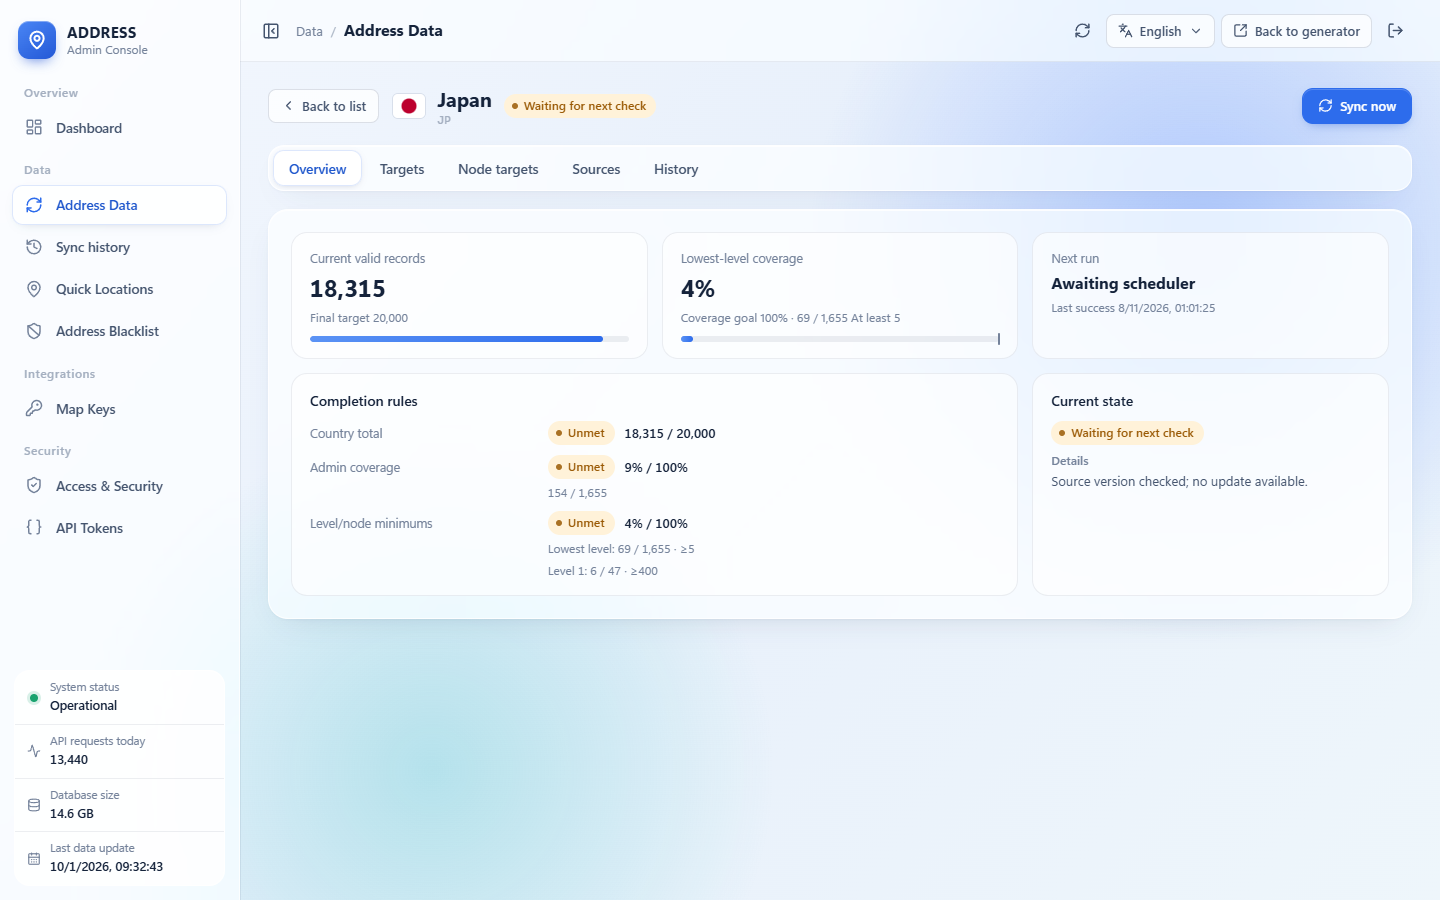
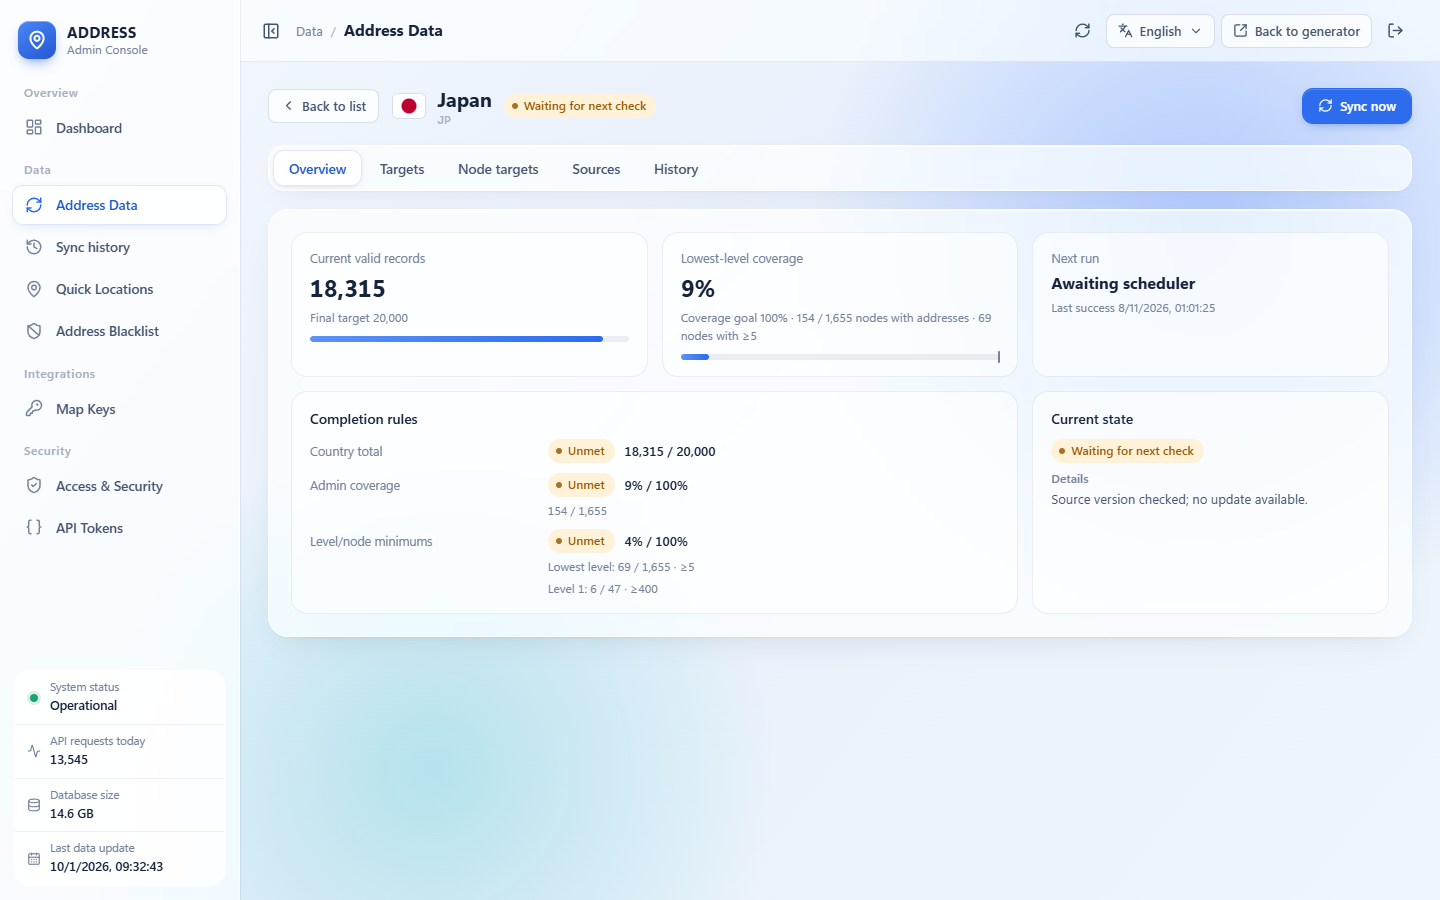
Release v2.0.9 with consistent coverage reporting
- Show administrative coverage (nodes with addresses) in the country list and detail card, with per-node minimum counts alongside, matching the completion rules
- Bump version to 2.0.9 and add release notes

diff --git a/src/components/admin/locale-text.ts b/src/components/admin/locale-text.ts
@@ -12,7 +12,7 @@ const en = {
     filterAll: 'All', filterAttention: 'Needs attention', filterActive: 'In progress', filterWaiting: 'Waiting', filterDone: 'Goal met', filterLimited: 'Source limit',
     sortLabel: 'Sort countries', sortDeficit: 'Largest gap first', sortName: 'Country name', sortCoverage: 'Lowest coverage first',
     queueStale: 'The sync queue snapshot is stale (generated {time}).', queueFresh: 'Queue snapshot {time}', nextRunPending: 'Awaiting scheduler',
-    rulesColumn: 'Completion rules', unlimitedQuota: 'Unlimited', ruleTotal: 'Total', ruleCoverage: 'Coverage', ruleMinimum: 'Minimums', backToList: 'Back to list',
+    rulesColumn: 'Completion rules', unlimitedQuota: 'Unlimited', coverageNodes: '{covered} / {total} nodes with addresses', minimumNodes: '{count} nodes with ≥{min}', ruleTotal: 'Total', ruleCoverage: 'Coverage', ruleMinimum: 'Minimums', backToList: 'Back to list',
     tabOverview: 'Overview', tabTargets: 'Targets', tabNodes: 'Node targets', tabSources: 'Sources', tabHistory: 'History', tabChina: 'District coverage',
     currentState: 'Current state', stateReason: 'Details', notFound: 'This country is not configured.',
     keyCount: '{count} keys', keyCountOne: '1 key', eta: 'ETA', untilRetry: 'retry in {time}', listSeparator: ', ',
@@ -83,7 +83,7 @@ export const localeText: Record<AdminLocale, LocaleText> = {
       filterAll: '全部', filterAttention: '需要处理', filterActive: '进行中', filterWaiting: '等待中', filterDone: '已达标', filterLimited: '来源上限',
       sortLabel: '排序方式', sortDeficit: '缺口从大到小', sortName: '国家名称', sortCoverage: '覆盖率从低到高',
       queueStale: '同步队列快照已过期（生成于 {time}）。', queueFresh: '队列快照 {time}', nextRunPending: '等待调度',
-      rulesColumn: '完成规则', unlimitedQuota: '无限额度', ruleTotal: '总量', ruleCoverage: '覆盖', ruleMinimum: '最低数量', backToList: '返回列表',
+      rulesColumn: '完成规则', unlimitedQuota: '无限额度', coverageNodes: '{covered} / {total} 个节点有地址', minimumNodes: '{count} 个节点达到 ≥{min} 条', ruleTotal: '总量', ruleCoverage: '覆盖', ruleMinimum: '最低数量', backToList: '返回列表',
       tabOverview: '概览', tabTargets: '目标设置', tabNodes: '节点目标', tabSources: '数据来源', tabHistory: '同步历史', tabChina: '区县覆盖',
       currentState: '当前状态', stateReason: '说明', notFound: '未找到该国家的配置。',
       keyCount: '{count} 个密钥', keyCountOne: '1 个密钥', eta: '预计', untilRetry: '{time} 后重试', listSeparator: '、',
@@ -148,7 +148,7 @@ export const localeText: Record<AdminLocale, LocaleText> = {
       filterAll: '全部', filterAttention: '需要處理', filterActive: '進行中', filterWaiting: '等待中', filterDone: '已達標', filterLimited: '來源上限',
       sortLabel: '排序方式', sortDeficit: '缺口由大到小', sortName: '國家名稱', sortCoverage: '覆蓋率由低到高',
       queueStale: '同步佇列快照已過期（產生於 {time}）。', queueFresh: '佇列快照 {time}', nextRunPending: '等待排程',
-      rulesColumn: '完成規則', unlimitedQuota: '無限額度', ruleTotal: '總量', ruleCoverage: '覆蓋', ruleMinimum: '最低數量', backToList: '返回列表',
+      rulesColumn: '完成規則', unlimitedQuota: '無限額度', coverageNodes: '{covered} / {total} 個節點有地址', minimumNodes: '{count} 個節點達到 ≥{min} 筆', ruleTotal: '總量', ruleCoverage: '覆蓋', ruleMinimum: '最低數量', backToList: '返回列表',
       tabOverview: '概覽', tabTargets: '目標設定', tabNodes: '節點目標', tabSources: '資料來源', tabHistory: '同步歷史', tabChina: '區縣覆蓋',
       currentState: '目前狀態', stateReason: '說明', notFound: '找不到此國家的設定。',
       keyCount: '{count} 個金鑰', keyCountOne: '1 個金鑰', eta: '預計', untilRetry: '{time} 後重試', listSeparator: '、',
@@ -213,7 +213,7 @@ export const localeText: Record<AdminLocale, LocaleText> = {
       filterAll: 'すべて', filterAttention: '対応が必要', filterActive: '進行中', filterWaiting: '待機中', filterDone: '目標達成', filterLimited: 'ソース上限',
       sortLabel: '並べ替え', sortDeficit: '不足が大きい順', sortName: '国名', sortCoverage: '網羅率が低い順',
       queueStale: '同期キューのスナップショットが古くなっています（{time} 生成）。', queueFresh: 'キュー更新 {time}', nextRunPending: 'スケジュール待ち',
-      rulesColumn: '完了条件', unlimitedQuota: '無制限', ruleTotal: '総数', ruleCoverage: '網羅', ruleMinimum: '最低数', backToList: '一覧に戻る',
+      rulesColumn: '完了条件', unlimitedQuota: '無制限', coverageNodes: '{covered} / {total} ノードに住所あり', minimumNodes: '{count} ノードが {min} 件以上', ruleTotal: '総数', ruleCoverage: '網羅', ruleMinimum: '最低数', backToList: '一覧に戻る',
       tabOverview: '概要', tabTargets: '目標設定', tabNodes: 'ノード目標', tabSources: 'データソース', tabHistory: '同期履歴', tabChina: '区・県の網羅',
       currentState: '現在の状態', stateReason: '詳細', notFound: 'この国は設定されていません。',
       keyCount: 'キー {count} 件', keyCountOne: 'キー 1 件', eta: '予測', untilRetry: '{time} 後に再試行', listSeparator: '、',
@@ -278,7 +278,7 @@ export const localeText: Record<AdminLocale, LocaleText> = {
       filterAll: '전체', filterAttention: '조치 필요', filterActive: '진행 중', filterWaiting: '대기 중', filterDone: '목표 달성', filterLimited: '원본 한도',
       sortLabel: '정렬', sortDeficit: '부족분 큰 순', sortName: '국가 이름', sortCoverage: '커버리지 낮은 순',
       queueStale: '동기화 대기열 스냅샷이 오래되었습니다({time} 생성).', queueFresh: '대기열 스냅샷 {time}', nextRunPending: '스케줄 대기',
-      rulesColumn: '완료 조건', unlimitedQuota: '무제한', ruleTotal: '총계', ruleCoverage: '커버리지', ruleMinimum: '최소 수', backToList: '목록으로',
+      rulesColumn: '완료 조건', unlimitedQuota: '무제한', coverageNodes: '{covered} / {total}개 노드에 주소 있음', minimumNodes: '{count}개 노드가 {min}건 이상', ruleTotal: '총계', ruleCoverage: '커버리지', ruleMinimum: '최소 수', backToList: '목록으로',
       tabOverview: '개요', tabTargets: '목표 설정', tabNodes: '노드 목표', tabSources: '데이터 원본', tabHistory: '동기화 기록', tabChina: '구·현 커버리지',
       currentState: '현재 상태', stateReason: '상세', notFound: '이 국가는 설정되어 있지 않습니다.',
       keyCount: '키 {count}개', keyCountOne: '키 1개', eta: '예상', untilRetry: '{time} 후 재시도', listSeparator: ', ',
@@ -343,7 +343,7 @@ export const localeText: Record<AdminLocale, LocaleText> = {
       filterAll: 'Alle', filterAttention: 'Handlungsbedarf', filterActive: 'In Arbeit', filterWaiting: 'Wartend', filterDone: 'Ziel erreicht', filterLimited: 'Quellenlimit',
       sortLabel: 'Länder sortieren', sortDeficit: 'Größte Lücke zuerst', sortName: 'Ländername', sortCoverage: 'Geringste Abdeckung zuerst',
       queueStale: 'Der Snapshot der Sync-Warteschlange ist veraltet (erstellt {time}).', queueFresh: 'Warteschlangen-Snapshot {time}', nextRunPending: 'Wartet auf Scheduler',
-      rulesColumn: 'Abschlussregeln', unlimitedQuota: 'Unbegrenzt', ruleTotal: 'Summe', ruleCoverage: 'Abdeckung', ruleMinimum: 'Minimum', backToList: 'Zurück zur Liste',
+      rulesColumn: 'Abschlussregeln', unlimitedQuota: 'Unbegrenzt', coverageNodes: '{covered} / {total} Knoten mit Adressen', minimumNodes: '{count} Knoten mit ≥{min}', ruleTotal: 'Summe', ruleCoverage: 'Abdeckung', ruleMinimum: 'Minimum', backToList: 'Zurück zur Liste',
       tabOverview: 'Übersicht', tabTargets: 'Ziele', tabNodes: 'Knotenziele', tabSources: 'Quellen', tabHistory: 'Verlauf', tabChina: 'Kreisabdeckung',
       currentState: 'Aktueller Status', stateReason: 'Details', notFound: 'Dieses Land ist nicht konfiguriert.',
       keyCount: '{count} Schlüssel', keyCountOne: '1 Schlüssel', eta: 'Prognose', untilRetry: 'neuer Versuch in {time}', listSeparator: ', ',
@@ -408,7 +408,7 @@ export const localeText: Record<AdminLocale, LocaleText> = {
       filterAll: 'Tous', filterAttention: 'À traiter', filterActive: 'En cours', filterWaiting: 'En attente', filterDone: 'Objectif atteint', filterLimited: 'Limite de source',
       sortLabel: 'Trier les pays', sortDeficit: 'Plus grand écart d’abord', sortName: 'Nom du pays', sortCoverage: 'Couverture la plus faible d’abord',
       queueStale: 'L’instantané de la file de synchronisation est périmé (généré {time}).', queueFresh: 'Instantané de la file {time}', nextRunPending: 'En attente du planificateur',
-      rulesColumn: 'Règles d’achèvement', unlimitedQuota: 'Illimité', ruleTotal: 'Total', ruleCoverage: 'Couverture', ruleMinimum: 'Minimums', backToList: 'Retour à la liste',
+      rulesColumn: 'Règles d’achèvement', unlimitedQuota: 'Illimité', coverageNodes: '{covered} / {total} nœuds avec adresses', minimumNodes: '{count} nœuds avec ≥{min}', ruleTotal: 'Total', ruleCoverage: 'Couverture', ruleMinimum: 'Minimums', backToList: 'Retour à la liste',
       tabOverview: 'Vue d’ensemble', tabTargets: 'Objectifs', tabNodes: 'Objectifs de nœud', tabSources: 'Sources', tabHistory: 'Historique', tabChina: 'Couverture des districts',
       currentState: 'État actuel', stateReason: 'Détails', notFound: 'Ce pays n’est pas configuré.',
       keyCount: '{count} clés', keyCountOne: '1 clé', eta: 'Estimation', untilRetry: 'nouvel essai dans {time}', listSeparator: ', ',
@@ -473,7 +473,7 @@ export const localeText: Record<AdminLocale, LocaleText> = {
       filterAll: 'Todos', filterAttention: 'Requiere acción', filterActive: 'En curso', filterWaiting: 'En espera', filterDone: 'Objetivo cumplido', filterLimited: 'Límite de fuente',
       sortLabel: 'Ordenar países', sortDeficit: 'Mayor brecha primero', sortName: 'Nombre del país', sortCoverage: 'Menor cobertura primero',
       queueStale: 'La instantánea de la cola de sincronización está desactualizada (generada {time}).', queueFresh: 'Instantánea de la cola {time}', nextRunPending: 'Esperando al planificador',
-      rulesColumn: 'Reglas de finalización', unlimitedQuota: 'Ilimitado', ruleTotal: 'Total', ruleCoverage: 'Cobertura', ruleMinimum: 'Mínimos', backToList: 'Volver a la lista',
+      rulesColumn: 'Reglas de finalización', unlimitedQuota: 'Ilimitado', coverageNodes: '{covered} / {total} nodos con direcciones', minimumNodes: '{count} nodos con ≥{min}', ruleTotal: 'Total', ruleCoverage: 'Cobertura', ruleMinimum: 'Mínimos', backToList: 'Volver a la lista',
       tabOverview: 'Resumen', tabTargets: 'Objetivos', tabNodes: 'Objetivos por nodo', tabSources: 'Fuentes', tabHistory: 'Historial', tabChina: 'Cobertura de distritos',
       currentState: 'Estado actual', stateReason: 'Detalles', notFound: 'Este país no está configurado.',
       keyCount: '{count} claves', keyCountOne: '1 clave', eta: 'Estimación', untilRetry: 'reintento en {time}', listSeparator: ', ',
@@ -538,7 +538,7 @@ export const localeText: Record<AdminLocale, LocaleText> = {
       filterAll: 'Todos', filterAttention: 'Requer ação', filterActive: 'Em andamento', filterWaiting: 'Aguardando', filterDone: 'Meta atingida', filterLimited: 'Limite da fonte',
       sortLabel: 'Ordenar países', sortDeficit: 'Maior lacuna primeiro', sortName: 'Nome do país', sortCoverage: 'Menor cobertura primeiro',
       queueStale: 'O instantâneo da fila de sincronização está desatualizado (gerado {time}).', queueFresh: 'Instantâneo da fila {time}', nextRunPending: 'Aguardando o agendador',
-      rulesColumn: 'Regras de conclusão', unlimitedQuota: 'Ilimitado', ruleTotal: 'Total', ruleCoverage: 'Cobertura', ruleMinimum: 'Mínimos', backToList: 'Voltar à lista',
+      rulesColumn: 'Regras de conclusão', unlimitedQuota: 'Ilimitado', coverageNodes: '{covered} / {total} nós com endereços', minimumNodes: '{count} nós com ≥{min}', ruleTotal: 'Total', ruleCoverage: 'Cobertura', ruleMinimum: 'Mínimos', backToList: 'Voltar à lista',
       tabOverview: 'Visão geral', tabTargets: 'Metas', tabNodes: 'Metas por nó', tabSources: 'Fontes', tabHistory: 'Histórico', tabChina: 'Cobertura de distritos',
       currentState: 'Estado atual', stateReason: 'Detalhes', notFound: 'Este país não está configurado.',
       keyCount: '{count} chaves', keyCountOne: '1 chave', eta: 'Estimativa', untilRetry: 'nova tentativa em {time}', listSeparator: ', ',

diff --git a/src/components/admin/sync.tsx b/src/components/admin/sync.tsx
@@ -129,6 +129,15 @@ const stateLabel = (state: string, locale: AdminLocale): string => {
   if (state in extras) return extras[state as keyof typeof extras];
   return text.states[state] || state;
 };
+export const administrativeCoverage = (country: AddressDataCountry): number => country.lowestCoverage?.total
+  ? country.lowestCoverage.covered / country.lowestCoverage.total : country.coverageActual;
+const coverageDetail = (country: AddressDataCountry, locale: AdminLocale): string => {
+  const coverage = country.lowestCoverage;
+  if (!coverage?.total) return '';
+  const ui = localeText[locale].ui;
+  return [interpolate(ui.coverageNodes, { covered: coverage.covered.toLocaleString(locale), total: coverage.total.toLocaleString(locale) }),
+    interpolate(ui.minimumNodes, { count: coverage.qualified.toLocaleString(locale), min: country.minPerNode.toLocaleString(locale) })].join(' · ');
+};
 export const rulesFor = (country: AddressDataCountry, entry?: SyncQueueEntry): SyncQueueRules => {
   if (entry?.rules) return entry.rules;
   const administrativeCoverageMet = entry?.unmetRules
@@ -138,7 +147,7 @@ export const rulesFor = (country: AddressDataCountry, entry?: SyncQueueEntry): S
   return {
     total: { current: country.currentCount, target: country.targetCount, met: country.countMet },
     administrativeCoverage: {
-      actual: country.coverageActual, target: country.coverageRatio, met: administrativeCoverageMet,
+      actual: administrativeCoverage(country), target: country.coverageRatio, met: administrativeCoverageMet,
       covered: country.lowestCoverage?.covered || 0, total: country.lowestCoverage?.total || 0
     },
     regionalMinimums: {
@@ -230,7 +239,7 @@ export function CountryWorkspace({ initialData, locale, busy, mutate, request }:
     return !needle || country.countryCode.toLowerCase().includes(needle) || countryName(country.countryCode, locale).toLocaleLowerCase().includes(needle);
   }).sort((left, right) => {
     if (sort === 'name') return countryName(left.countryCode, locale).localeCompare(countryName(right.countryCode, locale), locale);
-    if (sort === 'coverage') return left.coverageActual - right.coverageActual || left.countryCode.localeCompare(right.countryCode);
+    if (sort === 'coverage') return administrativeCoverage(left) - administrativeCoverage(right) || left.countryCode.localeCompare(right.countryCode);
     return Number(left.countryCode !== 'CN') - Number(right.countryCode !== 'CN')
       || (queueStateRank[(entries.get(left.countryCode)?.state || 'done')] - queueStateRank[(entries.get(right.countryCode)?.state || 'done')])
       || right.deficit - left.deficit || left.countryCode.localeCompare(right.countryCode);
@@ -264,14 +273,14 @@ export function CountryWorkspace({ initialData, locale, busy, mutate, request }:
       const entry = entries.get(country.countryCode);
       const state = rowState(country, entry);
       const note = queueNote(entry, country, locale, data.queue?.job || null);
-      const coverage = country.lowestCoverage;
+      const coveragePercent = administrativeCoverage(country);
       const running = state === 'running';
       return <tr key={country.countryCode} className={`queue-row ${state}`} data-country={country.countryCode}>
         <td><button type="button" className="country-name-button" onClick={() => open(country.countryCode)}>{isCountryCode(country.countryCode) && <img className="country-flag" src={flagSrc(country.countryCode)} width="24" height="18" alt="" loading="lazy" />}<span className="country-cell-name"><strong>{countryName(country.countryCode, locale)}</strong><small className="country-code">{country.countryCode}</small></span></button></td>
         <td className="numeric-cell"><div className="count-progress"><strong>{country.currentCount.toLocaleString(locale)}<small> / {country.targetCount.toLocaleString(locale)}</small></strong><span className="progress-track" aria-hidden="true"><i style={{ width: `${usagePercent(country.currentCount, country.targetCount)}%` }} /></span></div></td>
-        <td><div className="coverage-cell" title={coverage ? `${coverage.qualified.toLocaleString(locale)} / ${coverage.total.toLocaleString(locale)} ${text.qualified}` : undefined}>
-          <div className="coverage-cell-head"><strong>{Math.round(country.coverageActual * 100)}%</strong><small>/ {Math.round(country.coverageRatio * 100)}%</small></div>
-          <span className="progress-track coverage-progress" aria-hidden="true"><i style={{ width: `${Math.min(100, Math.round(country.coverageActual * 100))}%` }} /><b style={{ left: `calc(${Math.min(100, Math.round(country.coverageRatio * 100))}% - 1px)` }} /></span>
+        <td><div className="coverage-cell" title={coverageDetail(country, locale) || undefined}>
+          <div className="coverage-cell-head"><strong>{Math.round(coveragePercent * 100)}%</strong><small>/ {Math.round(country.coverageRatio * 100)}%</small></div>
+          <span className="progress-track coverage-progress" aria-hidden="true"><i style={{ width: `${Math.min(100, Math.round(coveragePercent * 100))}%` }} /><b style={{ left: `calc(${Math.min(100, Math.round(country.coverageRatio * 100))}% - 1px)` }} /></span>
         </div></td>
         <td><RuleBadges rules={rulesFor(country, entry)} locale={locale} /></td>
         <td><div className="state-cell"><span className={`badge address-data-status ${stateBadgeClass(country, entry)}`}>{stateLabel(state, locale)}</span>{note && <small title={note}>{note}</small>}</div></td>
@@ -320,7 +329,7 @@ function CountryDetail({ country, entry, job, locale, busy, mutate, request, bac
     <div className="country-tab-panel" id="country-tab-panel" role="tabpanel" aria-labelledby={tabId(tab)}>
       {tab === 'overview' && <div className="detail-overview">
         <article className="detail-stat"><span>{text.current}</span><strong>{country.currentCount.toLocaleString(locale)}</strong><small>{text.target} {country.targetCount.toLocaleString(locale)}</small><span className="progress-track" aria-hidden="true"><i style={{ width: `${usagePercent(country.currentCount, country.targetCount)}%` }} /></span></article>
-        <article className="detail-stat"><span>{text.coverage}</span><strong>{Math.round(country.coverageActual * 100)}%</strong><small>{text.coverageGoal} {Math.round(country.coverageRatio * 100)}%{country.lowestCoverage ? ` · ${country.lowestCoverage.qualified.toLocaleString(locale)} / ${country.lowestCoverage.total.toLocaleString(locale)} ${text.qualified}` : ''}</small><span className="progress-track coverage-progress" aria-hidden="true"><i style={{ width: `${Math.min(100, Math.round(country.coverageActual * 100))}%` }} /><b style={{ left: `calc(${Math.min(100, Math.round(country.coverageRatio * 100))}% - 1px)` }} /></span></article>
+        <article className="detail-stat"><span>{text.coverage}</span><strong>{Math.round(administrativeCoverage(country) * 100)}%</strong><small>{text.coverageGoal} {Math.round(country.coverageRatio * 100)}%{coverageDetail(country, locale) && ` · ${coverageDetail(country, locale)}`}</small><span className="progress-track coverage-progress" aria-hidden="true"><i style={{ width: `${Math.min(100, Math.round(administrativeCoverage(country) * 100))}%` }} /><b style={{ left: `calc(${Math.min(100, Math.round(country.coverageRatio * 100))}% - 1px)` }} /></span></article>
         <article className="detail-stat"><span>{text.nextRun}</span><strong className="detail-stat-text">{nextRunLabel(entry?.nextAttemptAt ?? country.nextAttemptAt, locale)}</strong><small>{text.lastSuccess} {dateTime(country.lastSuccessfulAt, locale)}</small></article>
         <section className="detail-card detail-rules"><h3>{ui.rulesColumn}</h3>
           <dl>

diff --git a/tests/ui-structure.test.ts b/tests/ui-structure.test.ts
@@ -363,4 +363,10 @@ describe('strict residential generator page structure', () => {
     expect(adminSource).toContain('quotaLimit: unlimited ? UNLIMITED_QUOTA : Number(quotaLimit)');
     expect(adminSource).toContain('window.limit >= UNLIMITED_QUOTA');
   });
+
+  it('shows administrative coverage separately from the per-node minimum ratio', () => {
+    expect(adminSource).toContain('country.lowestCoverage.covered / country.lowestCoverage.total');
+    expect(adminSource).toContain('interpolate(ui.minimumNodes');
+    expect(adminSource).not.toContain('Math.round(country.coverageActual * 100)');
+  });
 });
